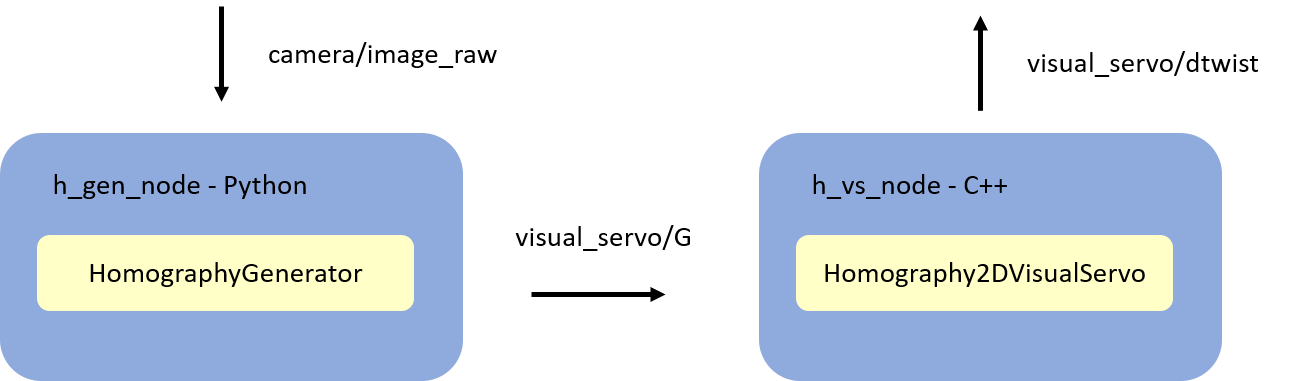
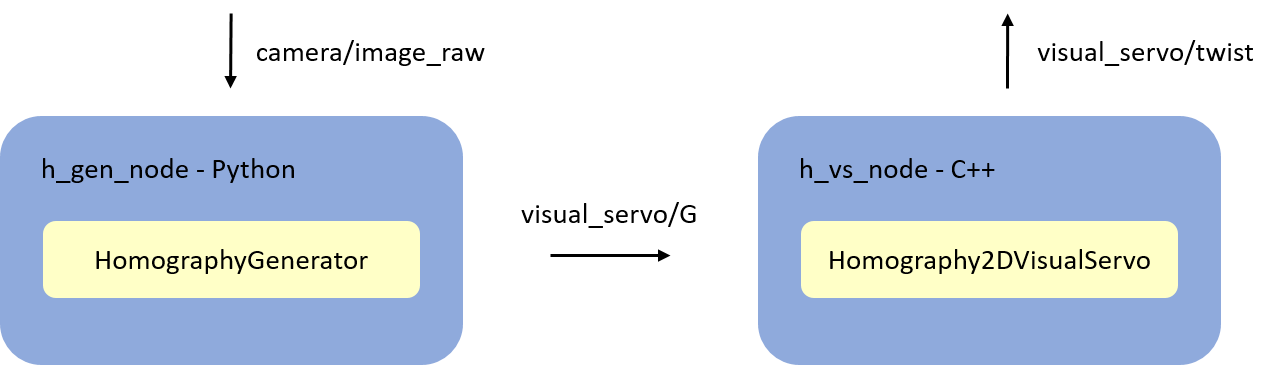
dtwist -> twist

diff --git a/src/h_vs_node.cpp b/src/h_vs_node.cpp
@@ -13,7 +13,7 @@
 Homography2DVisualServo hvs;
 
 ros::Subscriber G_sub;
-ros::Publisher dtwist_pub;
+ros::Publisher twist_pub;
 
 
 // Projective homography callback
@@ -23,13 +23,13 @@ void GCb(const std_msgs::Float64MultiArrayConstPtr G_msg) {
     Eigen::Matrix3d G = Eigen::Map<const Eigen::Matrix<double, 3, 3, Eigen::RowMajor>>(G_msg->data.data());
 
     // Compute feedback
-    auto dtwist = hvs.computeFeedback(G);  // defaults to p_star = principal point
+    auto twist = hvs.computeFeedback(G);  // defaults to p_star = principal point
 
     // Publish linear and angular velocity as twist
-    geometry_msgs::Twist dtwist_msg;
-    tf::twistEigenToMsg(dtwist, dtwist_msg);
+    geometry_msgs::Twist twist_msg;
+    tf::twistEigenToMsg(twist, twist_msg);
 
-    dtwist_pub.publish(dtwist_msg);
+    twist_pub.publish(twist_msg);
 };
 
 
@@ -59,12 +59,12 @@ int main(int argc, char** argv) {
 
     // Subscribe to projective homography and publish desired linear and angular velocity
     G_sub = nh.subscribe<std_msgs::Float64MultiArray>("visual_servo/G", 1, GCb);
-    dtwist_pub = nh.advertise<geometry_msgs::Twist>("visual_servo/dtwist", 1);
+    twist_pub = nh.advertise<geometry_msgs::Twist>("visual_servo/twist", 1);
 
     ros::spin();
 
     G_sub.shutdown();
-    dtwist_pub.shutdown();
+    twist_pub.shutdown();
 
     return 0;
 };

diff --git a/src/homography_2d_vs.cpp b/src/homography_2d_vs.cpp
@@ -11,10 +11,10 @@ Eigen::VectorXd Homography2DVisualServo::computeFeedback(Eigen::Matrix3d& G, Eig
     Eigen::Matrix3d H = _K.inverse()*G*_K;
     Eigen::Vector3d m_star = _K.inverse()*p_star;
 
-    Eigen::VectorXd dtwist(6);
-    dtwist << _lambda_v.asDiagonal()*_computeEv(H, m_star), _lambda_w.asDiagonal()*_computeEw(H);
+    Eigen::VectorXd twist(6);
+    twist << _lambda_v.asDiagonal()*_computeEv(H, m_star), _lambda_w.asDiagonal()*_computeEw(H);
 
-    return dtwist;
+    return twist;
 }
 
 
@@ -26,10 +26,10 @@ Eigen::VectorXd Homography2DVisualServo::computeFeedback(Eigen::Matrix3d& G) {
     Eigen::Matrix3d H = _K.inverse()*G*_K;
     Eigen::Vector3d m_star = _K.inverse()*p_star;
 
-    Eigen::VectorXd dtwist(6);
-    dtwist << _lambda_v.asDiagonal()*_computeEv(H, m_star), _lambda_w.asDiagonal()*_computeEw(H);
+    Eigen::VectorXd twist(6);
+    twist << _lambda_v.asDiagonal()*_computeEv(H, m_star), _lambda_w.asDiagonal()*_computeEw(H);
 
-    return dtwist;
+    return twist;
 }
 
 

diff --git a/README.md b/README.md
@@ -5,7 +5,7 @@ Implementation of [Homography-based 2D Visual Servoing](https://ieeexplore.ieee.
 This package runs two nodes
 
   - [h_gen_node](python/h_gen_node.py), subscribes `camera/image_raw` and has a child of [BaseHomographyGenerator](python/homography_generators/base_homography_generator.py) to compute and publish projective homography `G` to `visual_servo/G`
-  - [h_vs_node](src/h_vs_node.cpp), subscribes to `visual_servo/G` and has a [Homography2DVisualServo](include/h_vs/homography_2d_vs.h) to compute and publish angular and linear camera frame velocity to `visual_servo/dtwist`
+  - [h_vs_node](src/h_vs_node.cpp), subscribes to `visual_servo/G` and has a [Homography2DVisualServo](include/h_vs/homography_2d_vs.h) to compute and publish angular and linear camera frame velocity to `visual_servo/twist`
 
 Overview shown below
 <br/>
